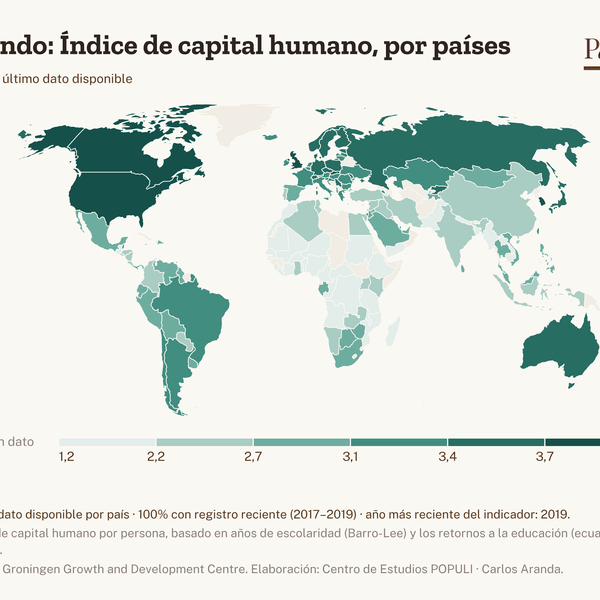
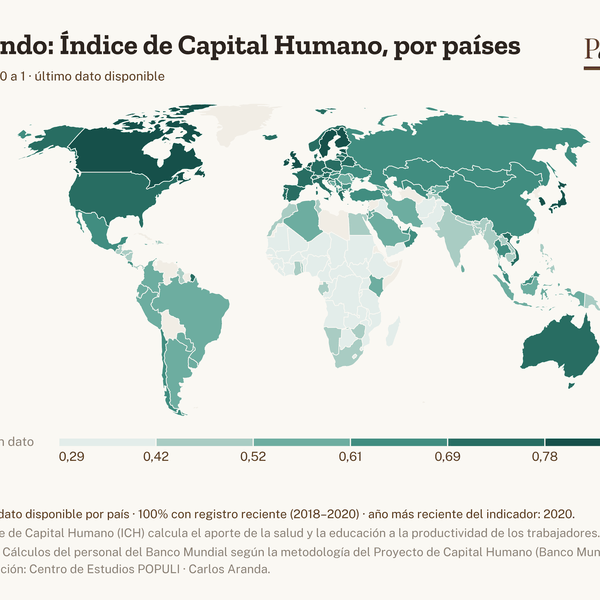
Mapas mundo: slug único evita colisión (capital humano BM vs PWT)
Dos indicadores con el mismo nombre salvo mayúsculas (HD.HCI.OVRL 'Índice de Capital Humano' y PWT.HC 'Índice de capital humano') generaban el mismo PNG y uno sobrescribía al otro (faltaba 1 mapa: 223 en vez de 224). Ahora slugs_unicos() da sufijo de fuente al duplicado (-pwt) y se agrega modo CLI 'ids' para regenerar puntual. Banco: 390 -> 391 gráficas, 224 mapas mundo.

diff --git a/viz/examples/mapas_mundo.py b/viz/examples/mapas_mundo.py
@@ -155,7 +155,28 @@ def paleta_para(name, category, signed):
     return "calido"
 
 
-def publicar_indicador(gdf_base, meta, source_default):
+def slugs_unicos(indicators):
+    """Slug por id garantizando UNICIDAD. Si dos indicadores producen el mismo
+    slug (p. ej. 'Índice de Capital Humano' del Banco Mundial vs 'Índice de
+    capital humano' de Penn World Table — difieren solo en mayúsculas), el
+    primero por id conserva el slug base y los demás reciben un sufijo con la
+    fuente (prefijo del id: PWT.HC -> '-pwt'). Antes uno sobrescribía al otro y
+    se perdía un mapa."""
+    grupos = {}
+    for ind in indicators:
+        grupos.setdefault(slugify(ind["name"]), []).append(ind["id"])
+    out = {}
+    for base, ids in grupos.items():
+        if len(ids) == 1:
+            out[ids[0]] = base
+            continue
+        for k, iid in enumerate(sorted(ids)):
+            tag = re.sub(r"[^a-z0-9]+", "-", re.split(r"[._]", iid)[0].lower()).strip("-")
+            out[iid] = base if k == 0 else f"{base}-{tag}"
+    return out
+
+
+def publicar_indicador(gdf_base, meta, source_default, slug):
     iid = meta["id"]
     raw = json.loads((ATLAS_DATA / "indicators" / f"{iid}.json").read_text(encoding="utf-8"))
     valid = set(gdf_base["iso3"].dropna())
@@ -182,7 +203,7 @@ def publicar_indicador(gdf_base, meta, source_default):
 
     publicar(
         meta={
-            "slug": slugify(name),
+            "slug": slug,
             "tipo": "mapa_mundial",
             "titulo": f"Mundo: {name}, por países",
             "subtitulo": (f"{formato_unidad(unit)} · último dato disponible"
@@ -201,11 +222,17 @@ def publicar_indicador(gdf_base, meta, source_default):
 
 
 def main():
-    todos = len(sys.argv) > 1 and sys.argv[1].lower() == "todos"
+    arg = sys.argv[1].lower() if len(sys.argv) > 1 else ""
     catalog = json.loads((ATLAS_DATA / "catalog.json").read_text(encoding="utf-8"))
     source_default = catalog.get("source_default", "Banco Mundial.")
     by_id = {d["id"]: d for d in catalog["indicators"]}
-    ids = list(by_id) if todos else SAMPLE
+    slug_by_id = slugs_unicos(catalog["indicators"])   # slugs únicos (sin colisiones)
+    if arg == "todos":
+        ids = list(by_id)
+    elif arg == "ids":                                  # regenerar indicadores puntuales
+        ids = sys.argv[2:]
+    else:
+        ids = SAMPLE
 
     gdf_base = cargar_geo()
     n = 0
@@ -214,7 +241,7 @@ def main():
         if not meta:
             print(f"SKIP {iid}: no está en el catálogo")
             continue
-        if publicar_indicador(gdf_base, meta, source_default):
+        if publicar_indicador(gdf_base, meta, source_default, slug_by_id[iid]):
             n += 1
     build_manifest()
     print(f"\n{n} mapas mundiales publicados al Banco.")